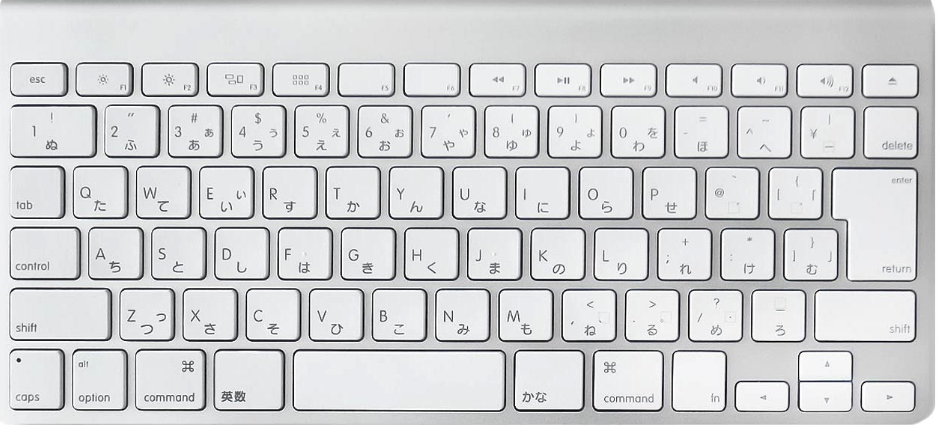
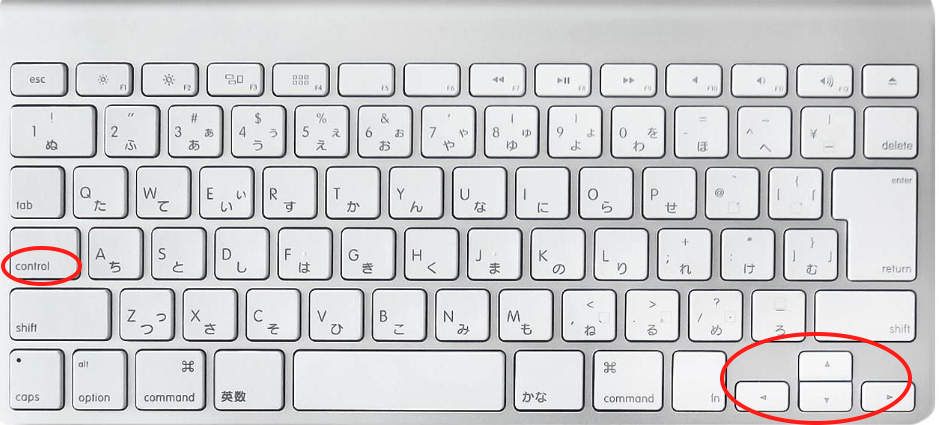
add images

diff --git a/2019/10/my_recommendation_tool/my_recommendation_tool.md b/2019/10/my_recommendation_tool/my_recommendation_tool.md
@@ -19,6 +19,7 @@
         - ![e_typing_home_position.png](https://github.com/kiyotakeshi/presentation/blob/my_recommendation/2019/10/my_recommendation_tool/assets/images/e_typing_home_position.png)
 
     - [ホームポジションで単語を入力する](https://www.e-typing.ne.jp/roma/variety/business.asp)
+        - ![e_typing_practice.png](https://github.com/kiyotakeshi/presentation/blob/my_recommendation/2019/10/my_recommendation_tool/assets/images/e_typing_practice.png)
 
 - 自己流フォームを絶対に矯正する必要はないと思う
 
@@ -26,6 +27,7 @@
 ## 2.Macショートカット
 
 - [十字キーが小さいし、Controlキーを使用する](https://gori.me/mac/mac-tips/16350)
+    - ![mac_keyboard.png](https://github.com/kiyotakeshi/presentation/blob/my_recommendation/2019/10/my_recommendation_tool/assets/images/mac_keyboard.png)
     - Control + b,f,p,n,a,e(カーソル移動)
     - Control + h,d,a→k(削除)
 
@@ -47,12 +49,13 @@
 - [PCはVivaldi](https://vivaldi.com/ja/)
     - Chromium系のブラウザで動作も安定
     - ジェスチャー動作、履歴検索、サイドバーのウェブパネルと機能豊富
-
+    - ![vivaldi_sample.png](https://github.com/kiyotakeshi/presentation/blob/my_recommendation/2019/10/my_recommendation_tool/assets/images/vivaldi_sample.png)
 - [スマホはBrave](https://play.google.com/store/apps/details?id=com.brave.browser&hl=ja)
     - Chromium系
     - タブ切り替えが画面下側にある
     - 広告を完全ブロック、広告を見るとトークンがもらえる
     - [University Study Finds Adblock Plus Could Save 40 Percent Network Bandwidth](https://www.silicon.co.uk/e-marketing/adblock-plus-adblocking-network-traffic-172245)
+    - ![brave_sp.jpg](https://github.com/kiyotakeshi/presentation/blob/my_recommendation/2019/10/my_recommendation_tool/assets/images/brave_sp.jpg)
 
 ---
 ## 5.自作パソコン
@@ -61,6 +64,7 @@
 
 - OSはデュアルブートで、Ubuntu,Windows
 - ベアボーンのサイズ感が魅力的過ぎて、[DeskMini A300](https://www.asrock.com/nettop/AMD/DeskMini%20A300%20Series/index.jp.asp) に換装
+- ![deskmini_a300_compare_mbp.jpg](https://github.com/kiyotakeshi/presentation/blob/my_recommendation/2019/10/my_recommendation_tool/assets/images/deskmini_a300_compare_mbp.jpg)
 
 ---
 ## 6.本
@@ -111,8 +115,7 @@
 ## 11.左右分離キーボード
 
 - [価格的に入門編のKinesis Freestyle2 Keyboardを購入](https://www.amazon.co.jp/dp/B009ZNBJBM/ref=cm_sw_r_tw_dp_U_x_2BOVDbY5G1XQJ)
-
-- 肩が開くので、こりがなくなった
+    - 肩が開くので、こりがなくなった
 
 - [パームレストも併用すると手首の、こりもなくなった](https://matsunosuke.jp/wood-palm-rest/)
     - メルカリでオーダーカットで作ってくれる人に頼んだ
